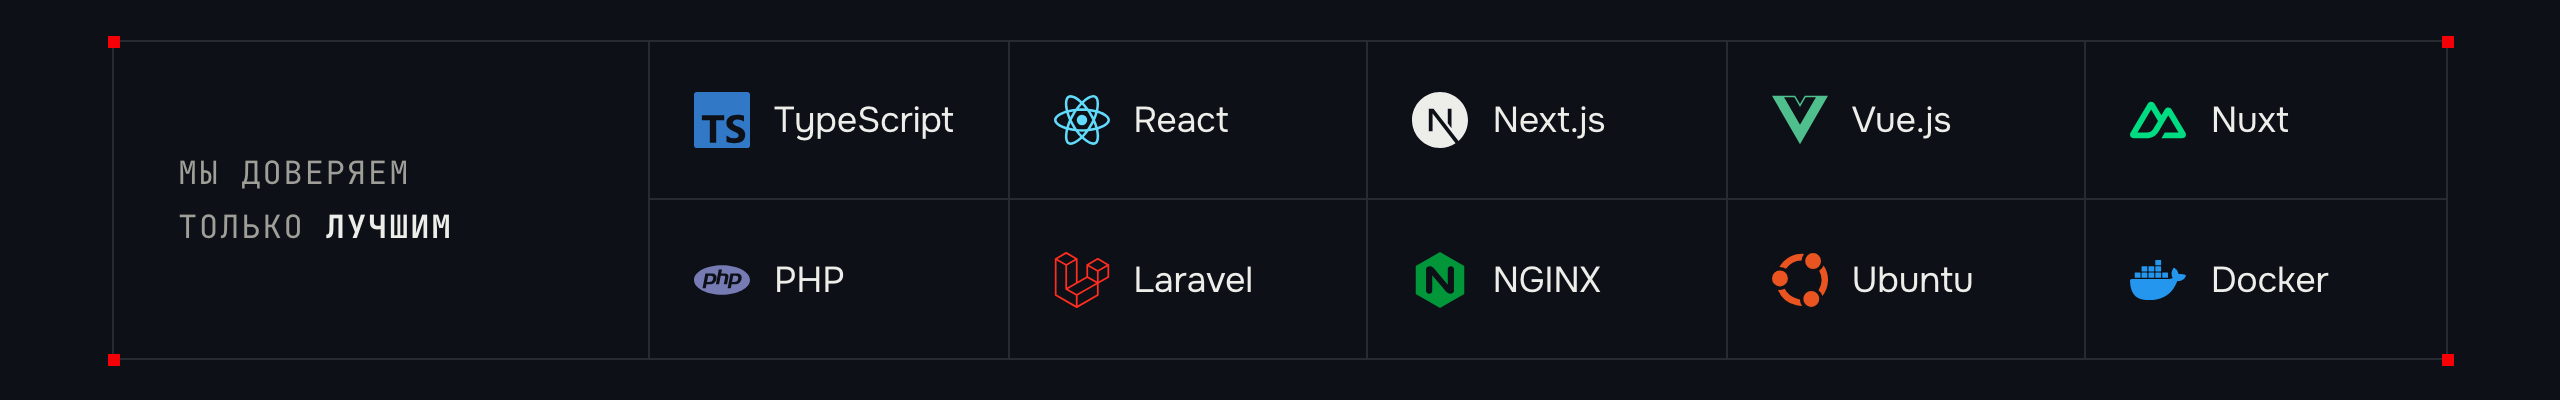
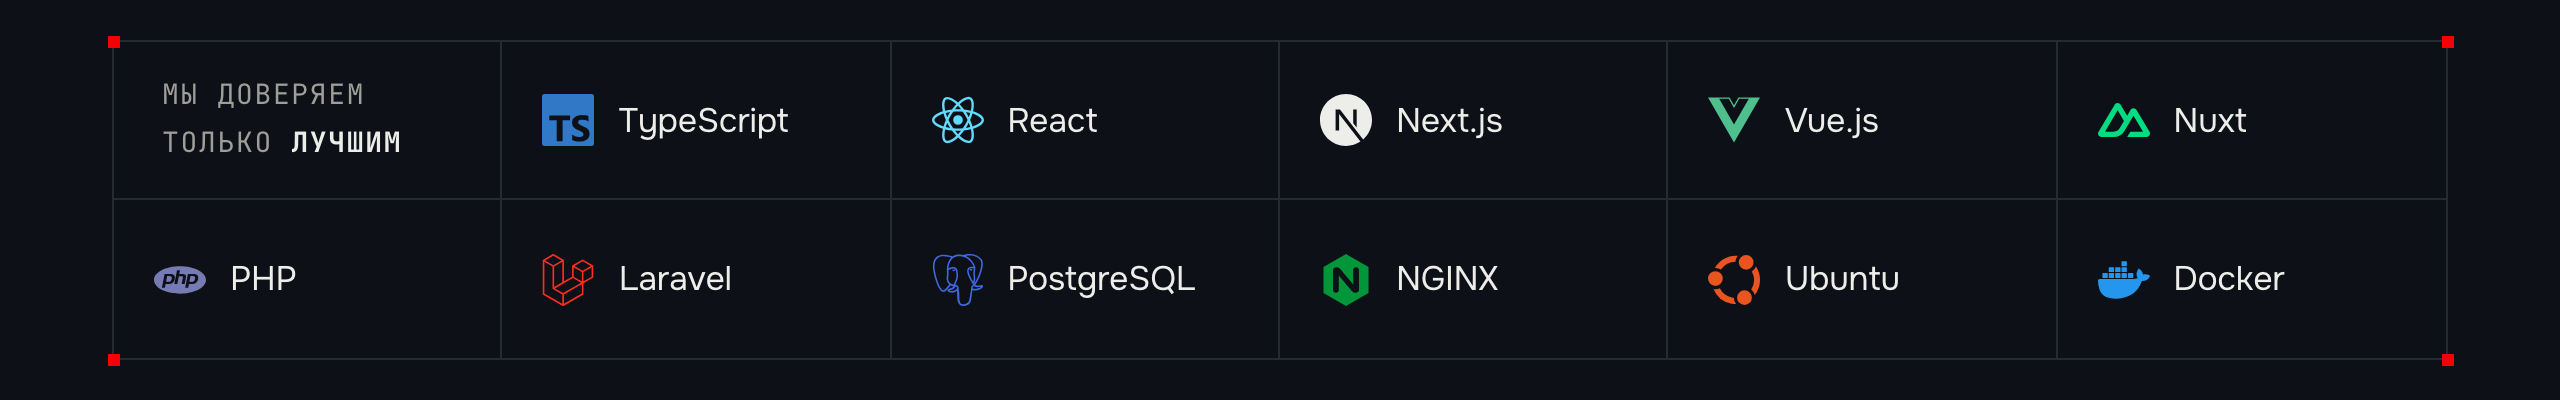
Профиль: PostgreSQL в стеке

diff --git a/profile/README.md b/profile/README.md
@@ -31,8 +31,8 @@
 ## Стек
 
 <picture>
-  <source media="(prefers-color-scheme: dark)" srcset="https://raw.githubusercontent.com/emostrStudio/.github/main/profile/assets/stack-dark.png">
-  <img alt="Мы доверяем только лучшим: TypeScript, React, Next.js, Vue.js, Nuxt, PHP, Laravel, NGINX, Ubuntu, Docker" src="https://raw.githubusercontent.com/emostrStudio/.github/main/profile/assets/stack-light.png">
+  <source media="(prefers-color-scheme: dark)" srcset="https://raw.githubusercontent.com/emostrStudio/.github/main/profile/assets/stack-dark.png?v=2">
+  <img alt="Мы доверяем только лучшим: TypeScript, React, Next.js, Vue.js, Nuxt, PHP, Laravel, PostgreSQL, NGINX, Ubuntu, Docker" src="https://raw.githubusercontent.com/emostrStudio/.github/main/profile/assets/stack-light.png?v=2">
 </picture>
 
 ## Как мы работаем
